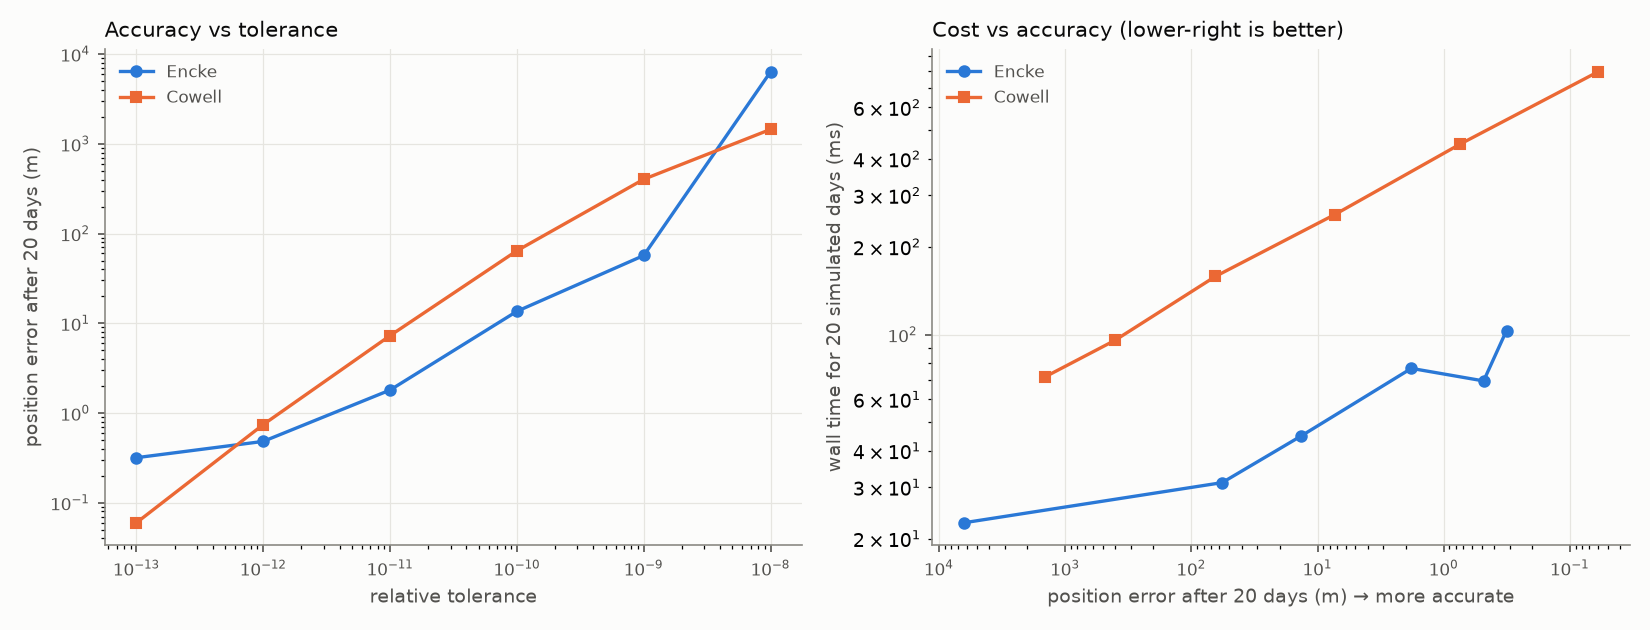
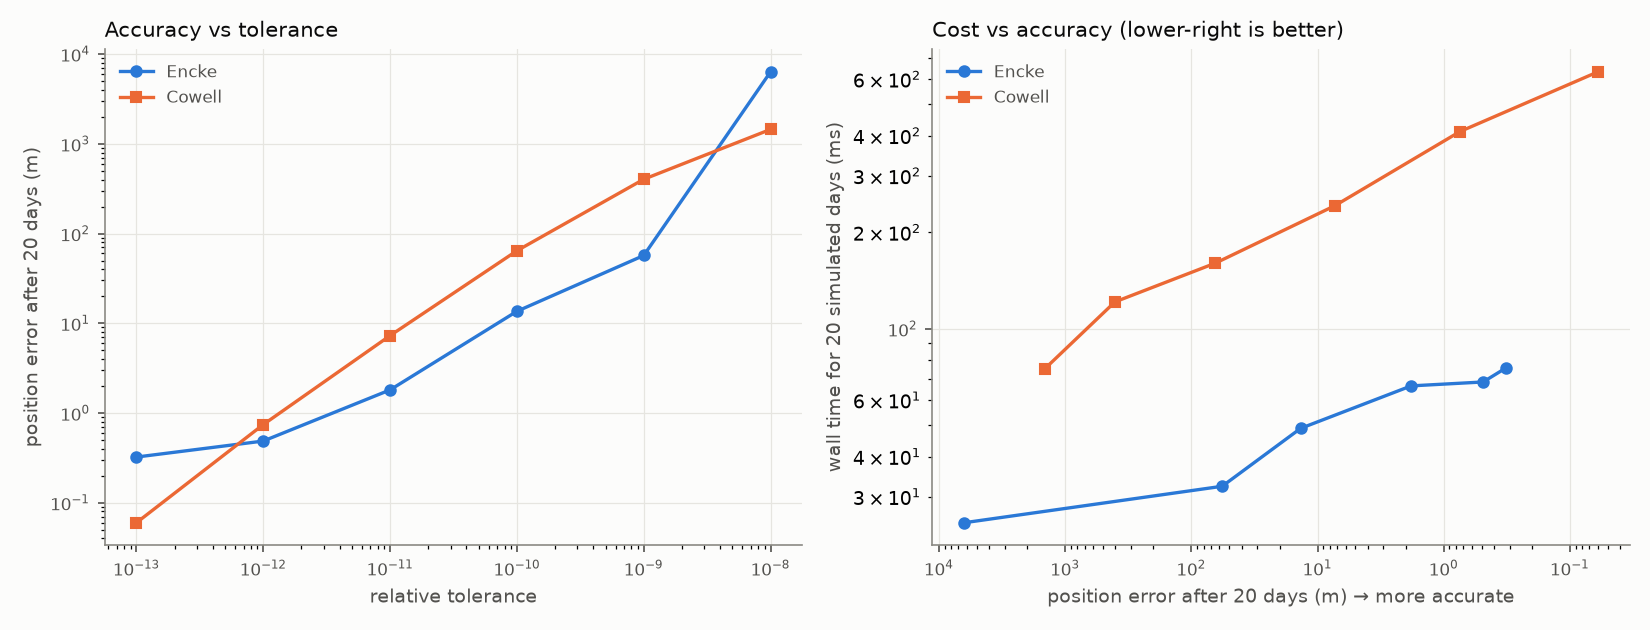
Conic solver: libm-independent convergence; refresh dynamics report
propagate_conic failed to converge for a hyperbolic case on macOS: Apple's
sinh/cosh round differently from glibc, so the Laguerre iteration stalled in
rounding noise just above the step-size threshold. Add a residual test (|F|
within 64 ulp of the magnitude of its terms) alongside the step test, and
report the residual and chi when convergence does fail.

Results change at the millimetre level (identical step counts); the
validation figures, tables and summary are regenerated from the final code.

Claude-Session: https://claude.ai/code/session_01KRY5WU7tL15BPFy5JR9EpJ

diff --git a/source/orbital/kepler.cpp b/source/orbital/kepler.cpp
@@ -3,6 +3,7 @@
 #include <algorithm>
 #include <cmath>
 #include <format>
+#include <limits>
 
 namespace helios::orbital {
 
@@ -297,6 +298,7 @@ core::Result<StateVector> propagate_conic(const StateVector& initial_state,
     constexpr int k_max_iterations = 100;
     constexpr double k_laguerre_order = 5.0;
     bool converged = false;
+    double last_relative_residual = std::numeric_limits<double>::infinity();
     for (int iteration = 0; iteration < k_max_iterations; ++iteration) {
         const double chi_squared = chi * chi;
         const double z = inverse_semi_major_axis_per_m * chi_squared;
@@ -319,16 +321,31 @@ core::Result<StateVector> propagate_conic(const StateVector& initial_state,
             chi *= 0.5;
             continue;
         }
+        // Rationale: two convergence tests, because the rounding floor depends on the platform's
+        // libm (Apple's sinh/cosh differ from glibc's in the last bits):
+        //  * the residual is within a few ulps of the magnitude of its terms, or
+        //  * the (cubically convergent) step is below 1e-13·|χ|, so the step being applied now
+        //    brings χ to rounding level.
+        const double residual_scale = std::abs(radial_speed_term * chi_squared * c_value)
+                                      + std::abs(one_minus_alpha_r * chi_squared * chi * s_value)
+                                      + std::abs(radius_m * chi) + std::abs(sqrt_mu * time_s);
+        last_relative_residual = std::abs(function) / residual_scale;
+        if (last_relative_residual <= 64.0 * std::numeric_limits<double>::epsilon()) {
+            converged = true;
+            break;
+        }
         chi -= step;
-        // Rationale: the iteration is cubic, so once a step is below 1e-13·|χ| the step just
-        // applied has already brought χ to rounding level; a tighter test can stall in noise.
         if (std::abs(step) <= 1e-13 * std::max(1.0, std::abs(chi))) {
             converged = true;
             break;
         }
     }
     if (!converged || !std::isfinite(chi)) {
-        return core::fail(ErrorCode::OutOfRange, "universal Kepler equation did not converge");
+        return core::fail(
+            ErrorCode::OutOfRange,
+            std::format("universal Kepler equation did not converge (Δt = {} s, χ = {}, relative "
+                        "residual {:.3g})",
+                        time_s, chi, last_relative_residual));
     }
 
     const double chi_squared = chi * chi;

diff --git a/docs/validation/dynamics/README.md b/docs/validation/dynamics/README.md
@@ -17,7 +17,7 @@
 
 | Test | Result |
 |---|---|
-| Encke vs Cowell, 20-day HEO with real Sun/Moon/planets (DE421) | ≤ **1.7 m**, while ignoring perturbations would be off by **1,552 km** |
+| Encke vs Cowell, 20-day HEO with real Sun/Moon/planets (DE421) | ≤ **1.8 m**, while ignoring perturbations would be off by **1,552 km** |
 | Cost at equal accuracy | Encke is **3–5× cheaper** than Cowell (fig. 2) |
 | Warp invariance (BRIEFING D14) | **Bit-identical** trajectories sampled every minute or once per 30 days (up to 1.6e8× warp) |
 | L4 libration, 5 years (CR3BP) | Jacobi constant conserved to **7e-13**; matches an independent rotating-frame CR3BP integration to **0.49 m** after 5 years |
@@ -34,7 +34,7 @@ hour by hour at a relative tolerance of 1e-13.
 ![Encke vs Cowell](fig1_encke_vs_cowell.png)
 
 Pure Kepler motion drifts by up to 1,550 km within 20 days: the Moon's pull at apogee matters.
-Encke stays within 2 m of the reference. The spikes are perigee passages, where any
+Encke stays within 1.8 m of the reference. The spikes are perigee passages, where any
 along-track error shows up as distance fastest.
 
 ### Tolerance sweep: accuracy and cost
@@ -43,12 +43,12 @@ Final error after 20 days against a tighter Cowell reference (2e-14, 120 s max s
 
 | Relative tolerance | Encke error (m) | Encke steps | Encke time (ms) | Cowell error (m) | Cowell time (ms) |
 |---|---|---|---|---|---|
-| 1e-08 | 6,344.40 | 415 | 23 | 1,447.77 | 72 |
-| 1e-09 | 56.95 | 586 | 31 | 402.77 | 96 |
-| 1e-10 | 13.60 | 870 | 45 | 64.33 | 158 |
-| 1e-11 | 1.80 | 1,255 | 77 | 7.29 | 258 |
-| 1e-12 | 0.48 | 1,605 | 69 | 0.74 | 449 |
-| 1e-13 | 0.32 | 1,737 | 103 | 0.06 | 794 |
+| 1e-08 | 6,344.40 | 415 | 25 | 1,447.77 | 75 |
+| 1e-09 | 56.94 | 586 | 32 | 402.77 | 121 |
+| 1e-10 | 13.60 | 870 | 49 | 64.33 | 160 |
+| 1e-11 | 1.81 | 1,255 | 66 | 7.29 | 242 |
+| 1e-12 | 0.49 | 1,605 | 68 | 0.74 | 412 |
+| 1e-13 | 0.32 | 1,737 | 75 | 0.06 | 632 |
 
 ![Tolerance sweep](fig2_tolerance_sweep.png)
 
